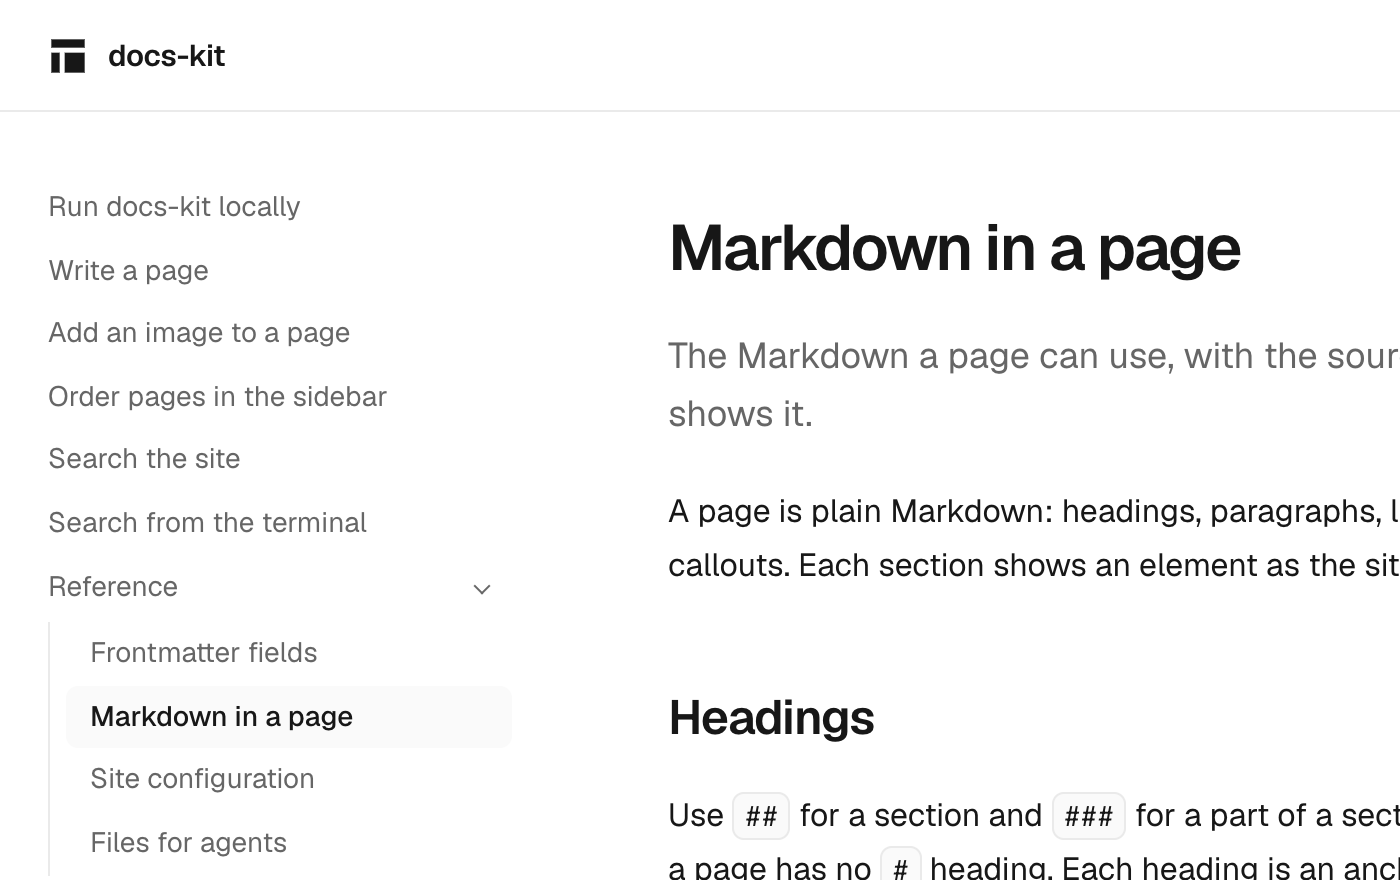
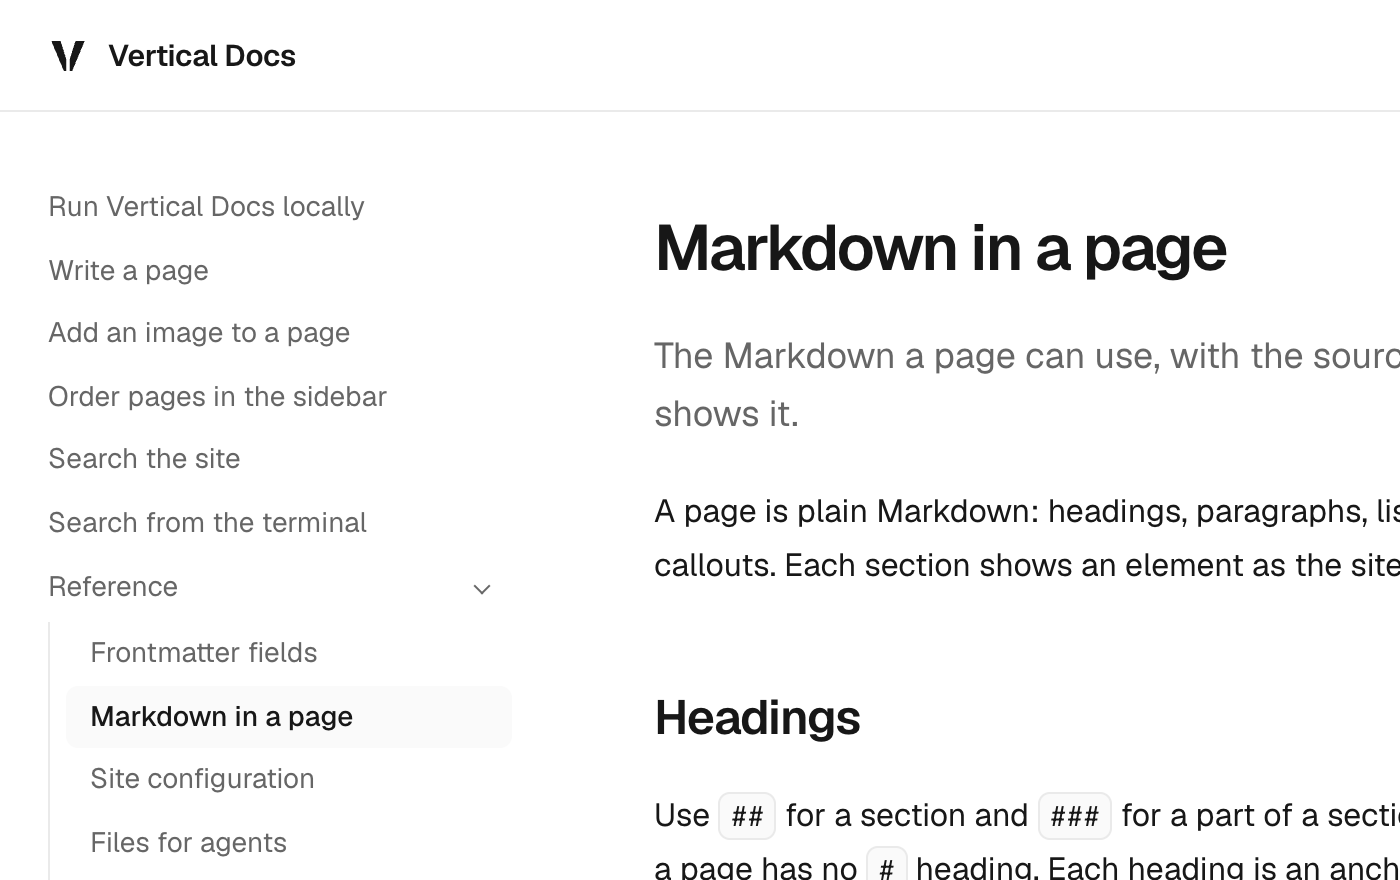
Phase 4: Vertical Docs, its mark and share image, and a deletion pass (#10)
* Phase 4: the product is Vertical Docs, short name vdocs

The name in the header, the README, the docs pages and their quoted
outputs, the package and the Worker. The repository keeps the name
docs-kit until its owner renames it, so docs-sync.yml is unchanged.

* Phase 4: the Vertical Docs mark, favicon and share image

The mark is an open book standing up, which is also the V of Vertical.
The screenshot in the docs pages is retaken with the new header.

* Phase 4: deletion pass

Two margins that a later rule always overrode, a second scan of every
page for its inline scripts, and two ignore entries for folders that
no longer exist. The pages look the same; the CSS is 13 bytes smaller.

---------

diff --git a/scripts/check-dist.ts b/scripts/check-dist.ts
@@ -103,7 +103,8 @@ for (const file of [...loaded].filter((file) => file.endsWith(".js"))) {
 	importsOf(file, read(file));
 }
 // Astro writes the paths in an inline script from the site root, so any page works as the base.
-for (const code of inline("script")) importsOf("index.html", code);
+const scripts = inline("script");
+for (const code of scripts) importsOf("index.html", code);
 
 // Every search result has to open: the dialog, the command line and agents all follow these URLs.
 if (isFile("dist/search.json")) {
@@ -160,7 +161,7 @@ const budgets = [
 			...withExt(".js")
 				.filter((file) => loaded.has(file))
 				.map(read),
-			...inline("script"),
+			...scripts,
 		],
 	},
 	{

diff --git a/src/styles/global.css b/src/styles/global.css
@@ -466,12 +466,10 @@
 		}
 
 		& .source {
-			margin-top: 3rem;
 			font-size: 0.875rem;
 		}
 
 		& .lead {
-			margin: 0.75rem 0 2.5rem;
 			color: var(--fg-muted);
 			font-size: 1.125rem;
 			line-height: 1.6;

diff --git a/content/reference/agents.md b/content/reference/agents.md
@@ -23,7 +23,7 @@ The copy starts with the page title as a `#` heading and the page description. T
 
 Look up the frontmatter fields, the Markdown a page can use, the site configuration file, the files for agents and the Worker routes.
 
-The reference pages list every option docs-kit reads.
+The reference pages list every option Vertical Docs reads.
 
 - [Frontmatter fields](/reference/frontmatter/): the three fields at the top of a page.
 - [Markdown in a page](/reference/markdown/): headings, lists, code blocks, tables and callouts.
@@ -43,27 +43,27 @@ curl http://localhost:4321/llms.txt
 ```
 
 ```md
-# docs-kit
+# Vertical Docs
 
 > Markdown files become a website, a Markdown copy of every page and one search index for readers, terminals and agents.
 
 ## Docs
 
-- [Run docs-kit locally](https://docs-kit.example/index.md): Install the dependencies, start the local site, and run the one check that decides whether a change is done.
-- [Write a page](https://docs-kit.example/write-a-page.md): Add a Markdown file to the content folder and read it as a page on the local site.
-- [Add an image to a page](https://docs-kit.example/add-an-image.md): Put an image file beside the page, write one Markdown line with its alt text, and show a diagram that follows the light and the dark theme.
-- [Order pages in the sidebar](https://docs-kit.example/order-the-sidebar.md): Set the position of a page with one frontmatter field, and group pages by putting them in a folder.
-- [Search the site](https://docs-kit.example/search-the-site.md): Open the search with one key, type a word, and go to the section of the page that matches.
-- [Search from the terminal](https://docs-kit.example/search-from-the-terminal.md): Run the search of the site as a command, and get the same ranked sections as plain text or as JSON.
+- [Run Vertical Docs locally](https://vdocs.example/index.md): Install the dependencies, start the local site, and run the one check that decides whether a change is done.
+- [Write a page](https://vdocs.example/write-a-page.md): Add a Markdown file to the content folder and read it as a page on the local site.
+- [Add an image to a page](https://vdocs.example/add-an-image.md): Put an image file beside the page, write one Markdown line with its alt text, and show a diagram that follows the light and the dark theme.
+- [Order pages in the sidebar](https://vdocs.example/order-the-sidebar.md): Set the position of a page with one frontmatter field, and group pages by putting them in a folder.
+- [Search the site](https://vdocs.example/search-the-site.md): Open the search with one key, type a word, and go to the section of the page that matches.
+- [Search from the terminal](https://vdocs.example/search-from-the-terminal.md): Run the search of the site as a command, and get the same ranked sections as plain text or as JSON.
 
 ## Reference
 
-- [Reference](https://docs-kit.example/reference.md): Look up the frontmatter fields, the Markdown a page can use, the site configuration file, the files for agents and the Worker routes.
-- [Frontmatter fields](https://docs-kit.example/reference/frontmatter.md): The three fields a page can set at the top of its Markdown file, with their limits.
-- [Markdown in a page](https://docs-kit.example/reference/markdown.md): The Markdown a page can use, with the source for each element and the way the site shows it.
-- [Site configuration](https://docs-kit.example/reference/configuration.md): Set the site name, its description, its public address, the repository link and the accent colour, and replace the logo, favicon and share image.
-- [Files for agents](https://docs-kit.example/reference/agents.md): The three files an agent can fetch from a site without rendering a page, each with its URL and its format.
-- [Worker routes](https://docs-kit.example/reference/worker.md): Run the built site as a Cloudflare Worker, fetch a page as Markdown from its own URL and call the two MCP tools.
+- [Reference](https://vdocs.example/reference.md): Look up the frontmatter fields, the Markdown a page can use, the site configuration file, the files for agents and the Worker routes.
+- [Frontmatter fields](https://vdocs.example/reference/frontmatter.md): The three fields a page can set at the top of its Markdown file, with their limits.
+- [Markdown in a page](https://vdocs.example/reference/markdown.md): The Markdown a page can use, with the source for each element and the way the site shows it.
+- [Site configuration](https://vdocs.example/reference/configuration.md): Set the site name, its description, its public address, the repository link and the accent colour, and replace the logo, favicon and share image.
+- [Files for agents](https://vdocs.example/reference/agents.md): The three files an agent can fetch from a site without rendering a page, each with its URL and its format.
+- [Worker routes](https://vdocs.example/reference/worker.md): Run the built site as a Cloudflare Worker, fetch a page as Markdown from its own URL and call the two MCP tools.
 ```
 
 The first line is `name` from `docs.config.json` and the quote is `description`. See [Site configuration](/reference/configuration/).
@@ -79,7 +79,7 @@ curl -s http://localhost:4321/search.json | jq '.[] | select(.url == "/#start-th
 ```json
 {
   "url": "/#start-the-local-site",
-  "title": "Run docs-kit locally",
+  "title": "Run Vertical Docs locally",
   "heading": "Start the local site",
   "text": "pnpm dev The local site is at http://localhost:4321/. Each Markdown file in content/ is one page, and the file path is the URL."
 }

diff --git a/design/architecture.md b/design/architecture.md
@@ -1,6 +1,6 @@
 # Architecture and stack plan
 
-Status: phases 0 to 3a are built. Phase 3b is built up to what needs an account, a key or a product repository: the deploy, a run of the sync workflow and the first site going live. Phase 4 is planned. This replaced everything in the original brief except its goals and non-goals, which are all the [brief](brief.md) now holds; where this plan says "the brief", it means the full proposal in that file's history.
+Status: phases 0 to 3a are built. Phase 3b is built up to what needs an account, a key or a product repository: the deploy, a run of the sync workflow and the first site going live. Phase 4 is built: a 404 page, tables that scroll at every width, and the name, mark and share image. Versions are left out until a site needs them. This replaced everything in the original brief except its goals and non-goals, which are all the [brief](brief.md) now holds; where this plan says "the brief", it means the full proposal in that file's history.
 
 Every version and API below was checked on 2026-11-17 against the npm registry, official documentation, or a throwaway Astro project. Items that are still unverified are listed in [Still to verify](#still-to-verify).
 
@@ -227,7 +227,7 @@ Phase 0 is small enough to do directly. Phases 1 to 3b are ticket-sized. Each ph
 | 2. Search and reading surfaces | `sections.ts`, `search.ts`, `search.json`, search dialog, `.md` pages, `llms.txt`, `pnpm run search` | Searching a word from an `h3` opens that `h3`; the site and the command line return the same ranking |
 | 3a. Real content | `DOCS_ROOT`, images, diagrams per theme, a sidebar with groups that open and close, copy buttons, tables on a small screen, and build rules for images, task lists and heading order | Both sites, imported into throwaway folders, pass `pnpm check` and the Lighthouse scores |
 | 3b. Hosting, MCP, sync | Worker, deploy, `docs-sync.yml`, first product repository connected, old GitBook paths redirected. With the site's public URL: canonical URLs, `sitemap.xml`, `robots.txt`, share-image tags, structured data, and absolute URLs in `llms.txt` | An MCP client can search and fetch; a signature change in a demo repository produces a correct docs pull request |
-| 4. Brand | Final name and wordmark, share image, polish | Your sign-off |
+| 4. Finish version 1 | A 404 page, wide tables, the image file rule, sync runs one at a time; the name Vertical Docs, its mark, favicon and share image | Your sign-off |
 
 ## Versions, when a site needs them
 
@@ -256,5 +256,5 @@ Still open:
 1. **Cloudflare account.** The plan needs one for hosting. Vercel also works but puts the MCP route in a separate function.
 2. **Model key for the sync workflow.** A Claude subscription token (`claude setup-token`) is documented for personal repositories; an API key is recommended for organisation repositories.
 3. **Public or private kit.** Public removes the clone token in each product repository's build and makes the shared workflow callable from any account. I recommend public once phase 2 is done.
-4. **Name and accent colour**, needed by phase 4 only.
+4. **Name and accent colour**: answered on 2026-11-18. The product is Vertical Docs, a product of Vertical Labs, with the short name `vdocs` for the package and the Worker. The kit's own site stays black and white. The repository is still named `docs-kit`; renaming it is the owner's step, and `docs-sync.yml` names the repository.
 5. **First repository to connect**: answered. The vAPI docs come first (their source is already in Git), then the Vertical Studio docs.

diff --git a/design/features.md b/design/features.md
@@ -1,6 +1,6 @@
 # Features
 
-What docs-kit does, in the words of someone who uses it. One line per feature, grouped by who benefits. A built line ends with its proof: a number, a test or a command. A planned line names its phase in the [plan](architecture.md).
+What Vertical Docs does, in the words of someone who uses it. One line per feature, grouped by who benefits. A built line ends with its proof: a number, a test or a command. A planned line names its phase in the [plan](architecture.md).
 
 Every phase updates this list. Write nothing here that a tool result has not shown.
 
@@ -52,4 +52,4 @@ Every phase updates this list. Write nothing here that a tool result has not sho
 - **Hosting on Cloudflare Workers** (Worker built; not deployed). One Worker serves the built site, the Markdown answers and `/mcp`. Proof: the vAPI docs ran on the local Workers runtime (`wrangler dev`, 2026-11-17); a dry run of the deploy read 400 files and bundled the Worker at 150 KiB gzipped. Not shown: a deploy, which waits for a Cloudflare account.
 - **Search-engine extras** (built). Every page names its canonical URL, a share image and its trail of sidebar groups as structured data; the site has `sitemap.xml` and `robots.txt`. All use `url` from `docs.config.json`. Proof: the tests in `src/core/seo.test.ts`; the sitemap of the vAPI docs lists 109 of 109 pages, and three sampled pages carry the canonical URL and the share tags (2026-11-17); a build without `public/share.png` fails.
 - **Old addresses keep working** (built; not deployed). A site that moves lists its old paths in `public/_redirects`, and a line that points to no page or is not permanent fails the build. Proof: the test "fails for a redirect that points to no page, or that is not permanent"; on the local Workers runtime all 90 old paths of the vAPI docs answered 301 to a page that answered 200 (2026-11-17). Not shown: the same on Cloudflare.
-- **Final name and wordmark** (planned, phase 4).
+- **A name and a mark** (built). The product is Vertical Docs, short name `vdocs`. Its mark is an open book standing up, which is also the V of Vertical: one shape in the header, in the browser tab in both themes, and on the share image of 1,200 by 630 pixels. Proof: `public/logo.svg`, `public/favicon.svg` and `public/share.png`; the header in the screenshot on `content/add-an-image.md` (2026-11-18).

diff --git a/README.md b/README.md
@@ -1,8 +1,10 @@
-# docs-kit
+# Vertical Docs
 
 A super-light, agent-native docs system: Markdown in a repo, a static site, one search index shared by humans and agents, and an agent that keeps the docs in sync with the code.
 
-Status: phases 0 to 3a of the plan are built: the site with its sidebar, themes and sample pages, the search in the site and in the terminal, the files for agents, images, a content folder outside the project, and `pnpm check`. Hosting and the MCP server are next.
+Vertical Docs is a product of Vertical Labs; its short name is `vdocs`. The repository keeps the working name `docs-kit` until it is renamed.
+
+Status: version 1 is built and nothing is deployed. Built: the site with its sidebar, themes and search, the search in the terminal, the files for agents, images, a content folder outside the project, the Cloudflare Worker with the MCP server, redirects, the search-engine files and `pnpm check`. Next: the first deploy and the first two docs sites.
 
 - [Features](design/features.md): what the product does today and what is planned, each built line with its proof.
 - [Architecture and stack plan](design/architecture.md): what will be built, with what, in which order.

diff --git a/content/reference/configuration.md b/content/reference/configuration.md
@@ -10,9 +10,9 @@ A site is one folder that holds a configuration file, a `public/` folder and a `
 
 ```json
 {
-	"name": "docs-kit",
+	"name": "Vertical Docs",
 	"description": "Markdown files become a website, a Markdown copy of every page and one search index for readers, terminals and agents.",
-	"url": "https://docs-kit.example",
+	"url": "https://vdocs.example",
 	"repo": "https://github.com/ztsrdev/docs-kit",
 	"accent": "#171717"
 }

diff --git a/content/reference/index.md b/content/reference/index.md
@@ -4,7 +4,7 @@ description: Look up the frontmatter fields, the Markdown a page can use, the si
 order: 7
 ---
 
-The reference pages list every option docs-kit reads.
+The reference pages list every option Vertical Docs reads.
 
 - [Frontmatter fields](/reference/frontmatter/): the three fields at the top of a page.
 - [Markdown in a page](/reference/markdown/): headings, lists, code blocks, tables and callouts.

diff --git a/AGENTS.md b/AGENTS.md
@@ -1,4 +1,4 @@
-# docs-kit
+# Vertical Docs
 
 A static docs site generator. Markdown in `content/` becomes a website, per-page Markdown, one search index, a command-line search and an MCP server. The design and its reasons are in `design/architecture.md`.
 

diff --git a/content/index.md b/content/index.md
@@ -1,5 +1,5 @@
 ---
-title: Run docs-kit locally
+title: Run Vertical Docs locally
 description: Install the dependencies, start the local site, and run the one check that decides whether a change is done.
 order: 1
 ---
